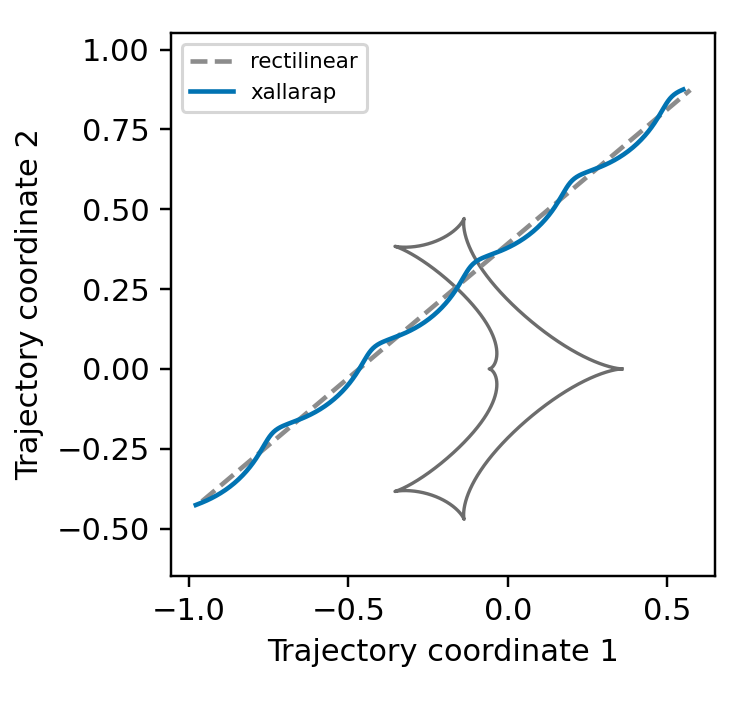
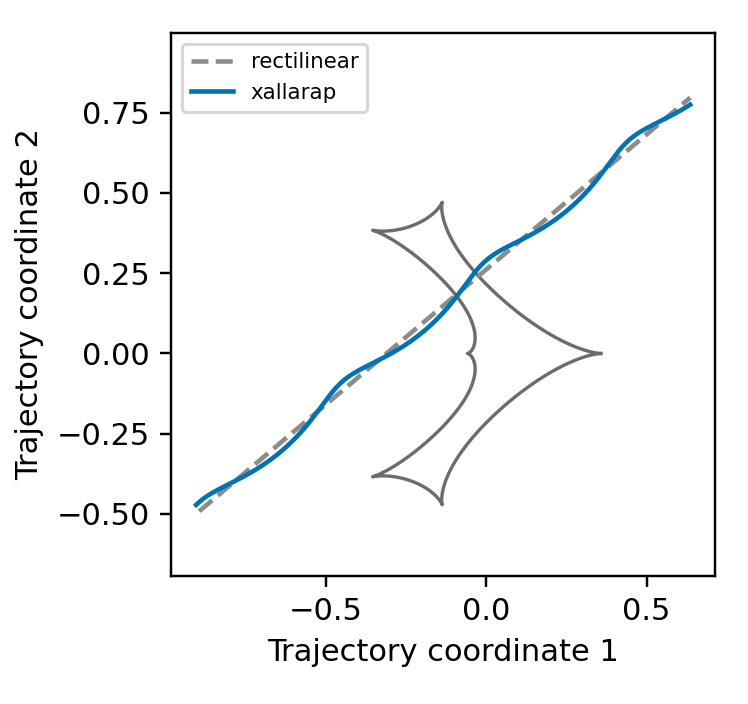
docs: align standalone xallarap with binary source example

diff --git a/example/docs-python/generate_figures.py b/example/docs-python/generate_figures.py
@@ -487,7 +487,7 @@ def xallarap_single_source():
     plt.legend(fontsize=7)
     save("Xallarap_elements_geometry.png")
 
-    velocity_params = dict(common, w1=0.008, w2=0.5, w3=0.12)
+    velocity_params = dict(common, u0=0.20, w1=0.004, w2=0.35, w3=0.08)
     velocity = lcbinint.LightCurve(xallarap="circular_velocity", t_ref=7500.0)
     velocity_static_params = dict(velocity_params)
     for key in ("xi_1", "xi_2", "w1", "w2", "w3"):

diff --git a/docs/python/Xallarap.md b/docs/python/Xallarap.md
@@ -78,9 +78,9 @@ plt.show()
 ```python
 parameters = {
     "s": 0.9, "q": 0.1, "alpha": 0.7, "tE": 30.0,
-    "t0": 7500.0, "u0": 0.30, "rho": 0.004,
+    "t0": 7500.0, "u0": 0.20, "rho": 0.004,
     "xi_1": 0.02, "xi_2": -0.01,
-    "w1": 0.008, "w2": 0.5, "w3": 0.12,
+    "w1": 0.004, "w2": 0.35, "w3": 0.08,
 }
 static_curve = lcbinint.LightCurve()
 curve = lcbinint.LightCurve(xallarap="circular_velocity", t_ref=7500.0)
